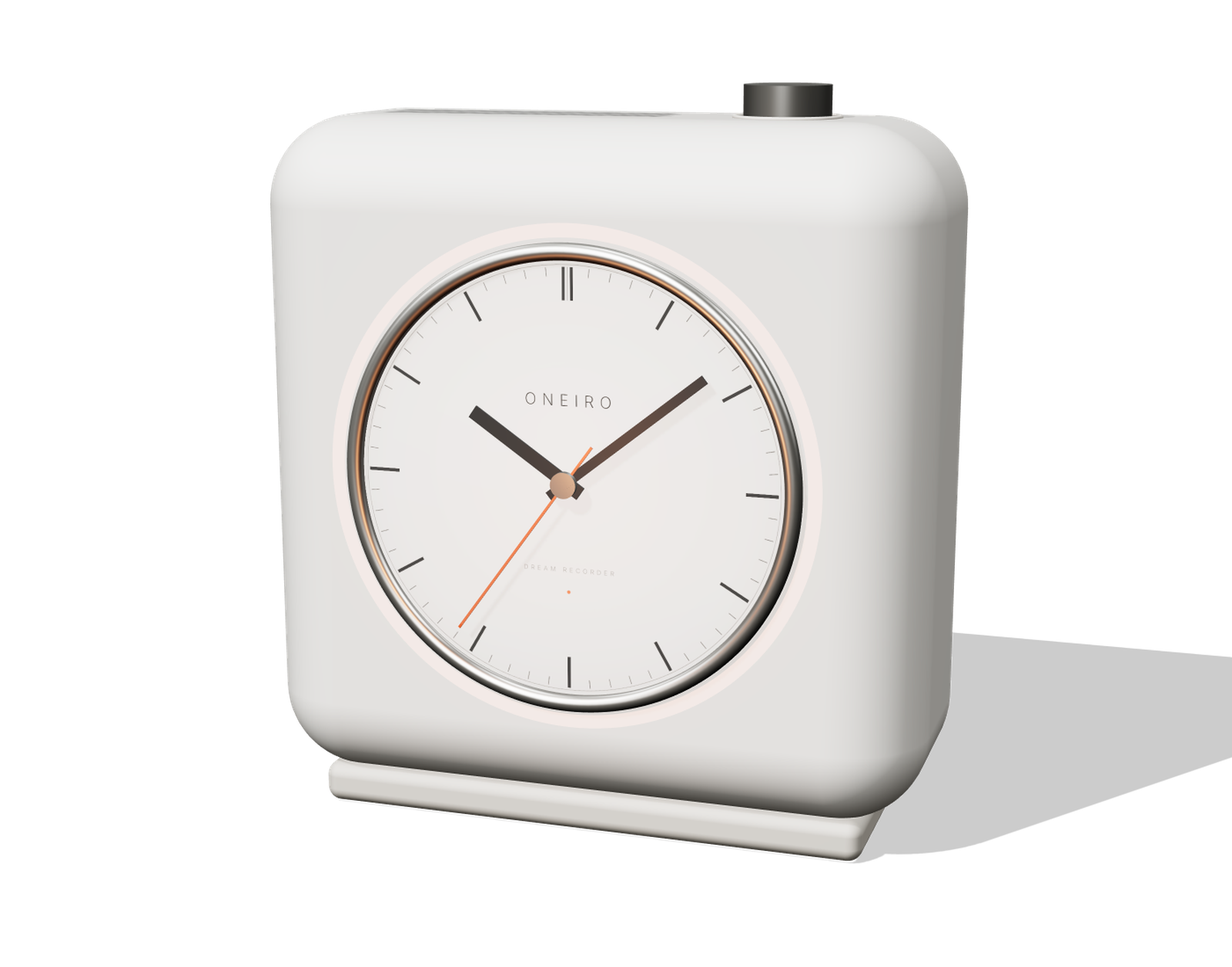
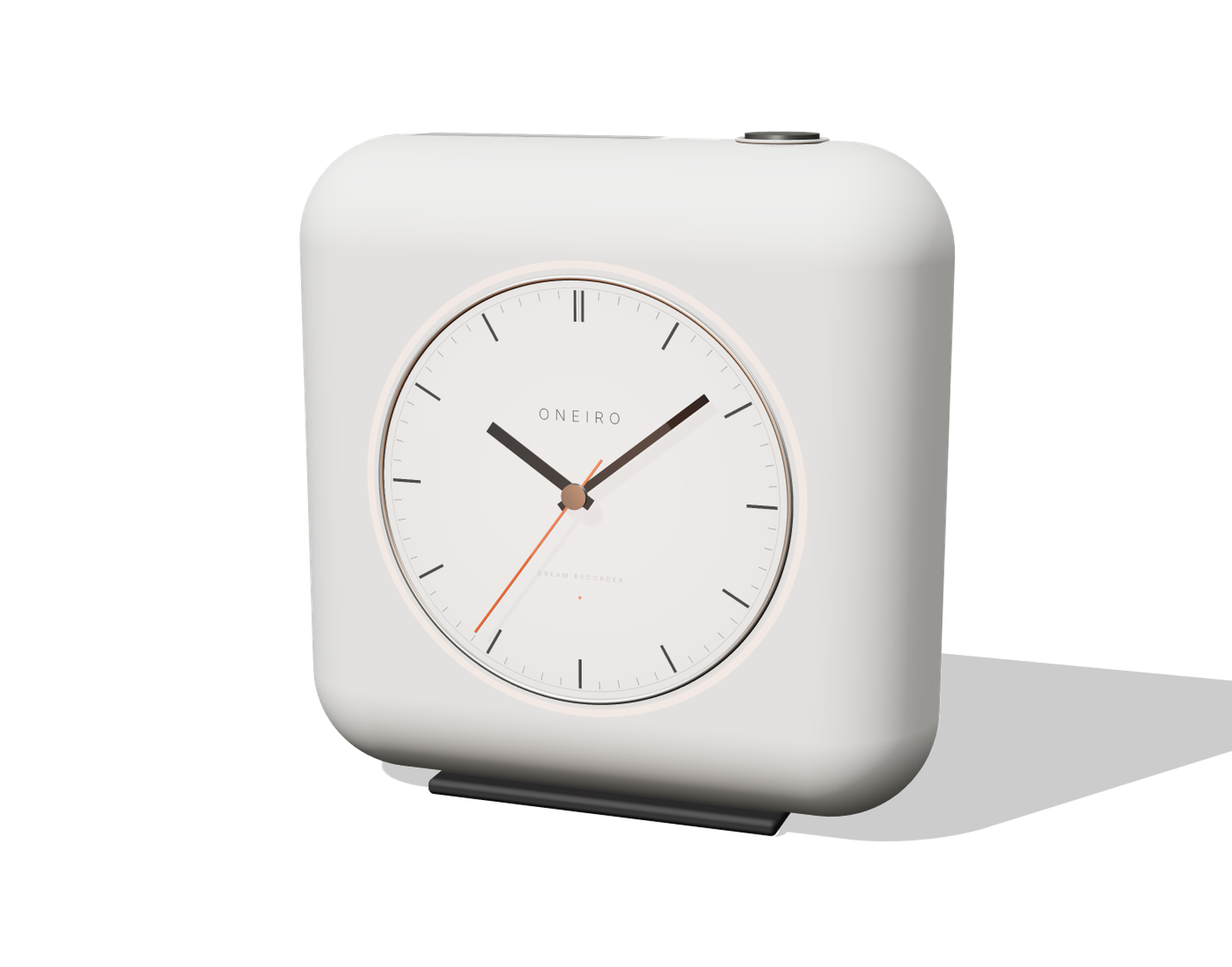
ONEIRO: Brick/WHOOP/Apple-inspired direction, graphite finish, daily score, membership model
Claude-Session: https://claude.ai/code/session_01Tka3XjxpxafM5JXNLjZUeU

diff --git a/oneiro/index.html b/oneiro/index.html
@@ -79,23 +79,27 @@ textarea{width:100%;min-height:104px;font:inherit;font-size:16px;color:var(--ink
 .hint3d{position:absolute;top:14px;inset-inline-start:18px;font-family:var(--f-mono);font-size:11px;letter-spacing:.12em;opacity:.55}
 
 /* phone */
-.phone{border-radius:44px;padding:11px;background:#e3e1dc;box-shadow:0 1px 0 #fff inset,0 30px 60px rgba(27,27,26,.12);max-width:360px;width:100%;margin-inline:auto}
-.screen{border-radius:34px;background:var(--card);min-height:660px;padding:20px 20px 24px;display:grid;gap:14px;align-content:start}
+.phone{border-radius:44px;padding:11px;background:#1c1d20;box-shadow:0 1px 0 #fff inset,0 30px 60px rgba(27,27,26,.12);max-width:360px;width:100%;margin-inline:auto}
+.screen{border-radius:34px;background:#0e0f11;color:#ecebe7;min-height:660px;padding:20px 20px 24px;display:grid;gap:14px;align-content:start}
 .island{width:96px;height:26px;border-radius:99px;background:#111;margin:-6px auto 6px}
 .appbar{display:flex;justify-content:space-between;align-items:center}
 .appbar .logo{font-family:var(--f-mono);letter-spacing:.38em;font-size:11px}
-.tag{font-family:var(--f-mono);font-size:10.5px;letter-spacing:.08em;padding:2px 9px;border-radius:99px;border:1px solid var(--line);color:var(--muted)}
+.tag{font-family:var(--f-mono);font-size:10.5px;letter-spacing:.08em;padding:2px 9px;border-radius:99px;border:1px solid #2e2f33;color:#a3a19b}
+.ring{display:flex;gap:14px;align-items:center}
+.ring svg{width:84px;height:84px;flex:none}
+.ring .rt{display:grid;gap:0}
+.ring .rt b{font-family:var(--f-mono);font-weight:300;font-size:13px;color:#a3a19b;letter-spacing:.08em}
 .tag.live{color:var(--accent);border-color:rgba(217,87,43,.4)}
 .ptitle{font-weight:300;font-size:25px;line-height:1.2;letter-spacing:-.01em}
-.pdream{font-size:14px;color:var(--muted);line-height:1.6}
+.pdream{font-size:14px;color:#a3a19b;line-height:1.6}
 .pills{display:flex;flex-wrap:wrap;gap:6px}
-.pills span{font-size:12px;padding:3px 10px;border-radius:99px;background:var(--stone)}
-.pills.emo span{background:none;border:1px solid var(--line)}
-.blk{display:grid;gap:4px;font-size:14.5px;padding-top:12px;border-top:1px solid var(--line)}
+.pills span{font-size:12px;padding:3px 10px;border-radius:99px;background:#222326}
+.pills.emo span{background:none;border:1px solid #2e2f33}
+.blk{display:grid;gap:4px;font-size:14.5px;padding-top:12px;border-top:1px solid #26272b}
 .blk .k{font-family:var(--f-mono);font-size:10.5px;letter-spacing:.14em;color:var(--faint);text-transform:uppercase}
 .blk.insight{border-top:0;background:linear-gradient(135deg,rgba(242,164,107,.18),rgba(242,164,107,.05));border-radius:14px;padding:12px 14px}
 .loading{display:flex;gap:6px;justify-content:center;padding:48px 0 8px}
-.loading i{width:7px;height:7px;border-radius:50%;background:var(--ink);animation:pulse 1.2s infinite}
+.loading i{width:7px;height:7px;border-radius:50%;background:#ecebe7;animation:pulse 1.2s infinite}
 .loading i:nth-child(2){animation-delay:.2s}.loading i:nth-child(3){animation-delay:.4s}
 @keyframes pulse{50%{opacity:.15}}
 .source{font-size:11px;color:var(--faint);text-align:center}
@@ -161,9 +165,26 @@ caption{text-align:start;font-weight:400;font-size:20px;padding-bottom:12px}
 .v1{background:var(--ink);color:var(--paper)}.v2{border:1px solid var(--line);color:var(--muted)}
 .honest{background:var(--card);border-radius:24px;padding:28px;display:grid;gap:12px;margin-top:56px}
 .honest ul{margin:0;padding-inline-start:18px;display:grid;gap:8px;color:var(--muted);font-size:15px}
+.refs{display:grid;grid-template-columns:repeat(3,1fr);gap:20px}
+.ref{background:var(--card);border-radius:24px;padding:26px;display:grid;gap:10px;align-content:start}
+.ref .from{font-family:var(--f-mono);font-size:11px;letter-spacing:.16em;color:var(--faint);text-transform:uppercase}
+.ref .take{border-top:1px solid var(--line);padding-top:12px;font-size:15px}
+.ref .take b{color:var(--accent);font-weight:500}
+.finishes{display:grid;grid-template-columns:1fr 1fr;gap:20px}
+.finish{border-radius:24px;overflow:hidden;background:radial-gradient(ellipse at 50% 35%,#f3f1ed,var(--stone) 75%);display:grid}
+.finish img{width:100%;height:auto;display:block}
+.finish .cap{padding:0 22px 20px;display:flex;justify-content:space-between;gap:10px;flex-wrap:wrap}
+.dark-band{background:#0e0f11;color:#ecebe7;border-radius:32px;padding-block:72px;padding-inline:max(20px,4vw);margin-block:24px}
+.dark-band .muted,.dark-band .sec-head p{color:#a3a19b}
+.dark-band .label{color:#7d7b75}
+.scores{display:grid;grid-template-columns:repeat(3,1fr);gap:20px}
+.score{display:grid;gap:10px;justify-items:start}
+.score svg{width:120px;height:120px}
+.score .big{font-family:var(--f-mono);font-weight:300;font-size:15px;color:#a3a19b}
 footer{padding-block:40px 64px;border-top:1px solid var(--line);color:var(--faint);font-size:13px}
 
 @media (max-width:900px){
+  .refs,.finishes,.scores{grid-template-columns:1fr}
   .sim,.report,.tables,.up{grid-template-columns:1fr}
   .journey,.specs,.figs{grid-template-columns:1fr 1fr}
   .specs div:nth-child(3),.fig:nth-child(3){border-inline-start:0}
@@ -189,19 +210,28 @@ footer{padding-block:40px 64px;border-top:1px solid var(--line);color:var(--fain
 <header class="hero">
   <span class="label">Dream Recorder · Model 01</span>
   <h1>השעון שזוכר<br>את החלומות שלך</h1>
-  <p class="lead">מחוגים אמיתיים מתחת לזכוכית כיפתית, וגוף בגוון אבן בהירה. מסביב לחוגה יש טבעת אור שמדמה זריחה. למעלה יש כפתור כתר מאלומיניום: לוחצים, מספרים את החלום, והוא מחכה לכם מפורש באפליקציה.</p>
+  <p class="lead">חפץ אחד ליד המיטה, בלי מסך ובלי התראות. מחוגים אמיתיים, טבעת אור שמעירה כמו זריחה, וכפתור אחד מאלומיניום: לוחצים ומספרים את החלום. כל בוקר מחכים לכם באפליקציה פירוש, תובנה וציון חלימה.</p>
   <div class="price-row">
     <a class="cta" href="#sim">לחוות בוקר אחד</a>
-    <span class="price">₪1,190</span>
+    <span class="price">₪49 לחודש, השעון כלול · או ₪1,190</span>
   </div>
   <div class="stage"><img src="oneiro-clock.png" width="1600" height="1257" alt="ONEIRO: שעון מעורר לבן-אפרפר עם חוגת מחוגים, טבעת מאלומיניום, זכוכית כיפתית ומחוג שניות כתום"></div>
   <div class="specs">
     <div><span class="v">מחוגים בתנועה שקטה</span><span class="k">מנוע צעד בלי תקתוק, מתכוונן לבד דרך Wi‑Fi</span></div>
     <div><span class="v">טבעת אור זריחה</span><span class="k">20 דקות מסגול לענבר לפני הצליל</span></div>
     <div><span class="v">כפתור כתר להקלטה</span><span class="k">מקליט רק כשלוחצים, עם נורית אדומה</span></div>
-    <div><span class="v">16 × 16 × 7 ס״מ</span><span class="k">אלומיניום עם צבע אבקה וזכוכית מינרלית</span></div>
+    <div><span class="v">אבן או גרפיט</span><span class="k">גוף מט 16 × 16 × 5.2 ס״מ, אלומיניום וזכוכית</span></div>
   </div>
 </header>
+
+<section id="refs">
+  <div class="sec-head"><span class="label">השראה</span><h2>מה לקחנו משלושה מוצרים שעבדו</h2><p>ONEIRO נמצא בדיוק בצומת שבו המוצרים האלה הצליחו: חפץ פיזי שמשנה הרגל, וולנס בלי מסך ומנוי של נתונים. ככה לוקחים מכל אחד את העיקרון, בלי להעתיק אותו.</p></div>
+  <div class="refs">
+    <div class="ref"><span class="from">Brick</span><h3>חפץ פשוט שמשנה הרגל</h3><p class="muted">קובייה שלא עושה כלום חוץ מלנעול את הטלפון. ההצלחה שלה היא בתנועה הפיזית: מחליטים עם הגוף, לא עם עוד אפליקציה.</p><p class="take"><b>אצלנו:</b> בוקר בלי טלפון. האפליקציות המסיחות נשארות נעולות עד שלוחצים על הכתר ומספרים את החלום, או עד 20 דקות אחרי ההשכמה.</p></div>
+    <div class="ref"><span class="from">WHOOP</span><h3>בלי מסך, ציון אחד, מנוי</h3><p class="muted">צמיד בלי מסך שמחזיר כל בוקר מספר אחד שאכפת לך ממנו. החומרה כלולה בחברות חודשית, והעסק הוא המנוי.</p><p class="take"><b>אצלנו:</b> ציון חלימה יומי, מנוי חודשי שכולל את השעון, ושום מסך על השעון עצמו.</p></div>
+    <div class="ref"><span class="from">Apple</span><h3>עיצוב ומערכת שלמה</h3><p class="muted">מוצר שנראה פשוט כי כל פרט הוחלט. ומוצרים שמדברים זה עם זה, כמו נתוני שינה מהשעון שנכנסים ל־Health.</p><p class="take"><b>אצלנו:</b> שני גימורים בלבד, אריזה שהיא חוויה, וסנכרון עם Apple Health, Apple Watch, Oura ו־WHOOP כדי לדעת מתי אתם בשלב חלימה.</p></div>
+  </div>
+</section>
 
 <section id="sim">
   <div class="sec-head">
@@ -256,13 +286,22 @@ footer{padding-block:40px 64px;border-top:1px solid var(--line);color:var(--fain
 </section>
 
 <section id="design">
-  <div class="sec-head"><span class="label">עיצוב</span><h2>ישן וחדש באותו חפץ</h2><p>הצורה שואבת משעוני שולחן של שנות ה־60: חוגה עגולה, מחוגים דקים, כיפת זכוכית. הטכנולוגיה מוסתרת מאחוריה. אין מסך ואין לוגו בולט, יש רק אור, קול וכפתור אחד.</p></div>
-  <div class="mats">
-    <div class="mat"><span class="swatch" style="background:#dedcd7;box-shadow:inset 0 0 0 1px var(--line)"></span><h3>גוף בגוון אבן</h3><p class="muted">אלומיניום בעיבוד שבבי וצבע אבקה מט בגוון לבן־אפרפר. כבד ביד ונעים למגע, לא פלסטיק.</p></div>
-    <div class="mat"><span class="swatch" style="background:linear-gradient(135deg,#f1f0ed,#a9a8a3)"></span><h3>טבעת וכתר מאלומיניום</h3><p class="muted">אלומיניום מוברש שמחזיר את אור הבוקר. הכתר נלחץ עם קליק מכני רך, ונורית אדומה סביבו מראה שמקליטים.</p></div>
-    <div class="mat"><span class="swatch" style="background:var(--accent)"></span><h3>מחוג שניות כתום</h3><p class="muted">הצבע היחיד על החוגה. הוא חוזר גם באפליקציה, באריזה ובשיווק.</p></div>
+  <div class="sec-head"><span class="label">עיצוב</span><h2>ישן וחדש באותו חפץ</h2><p>החוגה והמחוגים לקוחים משעוני שולחן קלאסיים. הגוף הוא אובייקט רך ושקט, ממשפחת המוצרים שמכירים מוולנס ומטכנולוגיה. אין מסך, אין התראות ויש כפתור אחד.</p></div>
+  <div class="finishes">
+    <div class="finish"><img src="oneiro-clock.png" width="1600" height="1257" alt="ONEIRO בגימור אבן: גוף לבן־אפרפר מט וחוגה בהירה"><div class="cap"><h3>אבן</h3><span class="muted">גוף מט לבן־אפרפר, מחוגים שחורים</span></div></div>
+    <div class="finish"><img src="oneiro-graphite.png" width="1600" height="1257" alt="ONEIRO בגימור גרפיט: גוף אפור כהה וחוגה כהה עם מחוגים לבנים"><div class="cap"><h3>גרפיט</h3><span class="muted">גוף אפור כהה, מחוגים לבנים, נעלם בחדר חשוך</span></div></div>
   </div>
+  <p class="note" style="margin-top:18px">בשני הגימורים מחוג השניות כתום, וזה הצבע היחיד. הטבעת, הכתר והמסגרת הדקה עשויים מאלומיניום מוברש. אין לוגו על הגוף, השם מופיע רק על החוגה.</p>
 </section>
+
+<div class="dark-band">
+  <div class="sec-head"><span class="label">האפליקציה</span><h2>מספר אחד כל בוקר</h2><p>במקום לגלול, מקבלים שלושה מדדים פשוטים. הם מגיעים מהשעון, מההקלטה ומהשעון החכם אם יש לכם.</p></div>
+  <div class="scores">
+    <div class="score"><svg viewBox="0 0 120 120"><circle cx="60" cy="60" r="50" fill="none" stroke="#26272b" stroke-width="8"/><circle cx="60" cy="60" r="50" fill="none" stroke="#d9572b" stroke-width="8" stroke-linecap="round" stroke-dasharray="257.6 314.2" transform="rotate(-90 60 60)"/><text x="60" y="68" text-anchor="middle" fill="#ecebe7" font-family="IBM Plex Mono, monospace" font-size="28" font-weight="300">82</text></svg><h3>ציון חלימה</h3><p class="muted">כמה מהחלום נשמר: אורך, פרטים, רגשות ודמויות. משתפר עם התרגול, וזה בדיוק מה שמחזיר אנשים כל בוקר.</p></div>
+    <div class="score"><svg viewBox="0 0 120 120"><circle cx="60" cy="60" r="50" fill="none" stroke="#26272b" stroke-width="8"/><circle cx="60" cy="60" r="50" fill="none" stroke="#f2a46b" stroke-width="8" stroke-linecap="round" stroke-dasharray="213.7 314.2" transform="rotate(-90 60 60)"/><text x="60" y="68" text-anchor="middle" fill="#ecebe7" font-family="IBM Plex Mono, monospace" font-size="28" font-weight="300">68</text></svg><h3>טון רגשי</h3><p class="muted">איך החלומות מרגישים לאורך השבוע. ירידה חדה היא סימן לשים לב ללחץ או לשינה.</p></div>
+    <div class="score"><svg viewBox="0 0 120 120"><circle cx="60" cy="60" r="50" fill="none" stroke="#26272b" stroke-width="8"/><circle cx="60" cy="60" r="50" fill="none" stroke="#ecebe7" stroke-width="8" stroke-linecap="round" stroke-dasharray="235.6 314.2" transform="rotate(-90 60 60)"/><text x="60" y="68" text-anchor="middle" fill="#ecebe7" font-family="IBM Plex Mono, monospace" font-size="28" font-weight="300">12</text></svg><h3>רצף ימים</h3><p class="muted">כמה בקרים ברצף סיפרתם חלום בלי לגעת בטלפון. ההרגל הוא המוצר.</p></div>
+  </div>
+</div>
 
 <section>
   <div class="sec-head"><span class="label">דוח חודשי · דוגמה</span><h2>החודש שלכם בחלומות</h2><p>אחרי חודש של הקלטות, האפליקציה מראה מה חוזר. זה הערך שאי אפשר לקבל ממחברת ליד המיטה.</p></div>
@@ -339,16 +378,24 @@ footer{padding-block:40px 64px;border-top:1px solid var(--line);color:var(--fain
 </section>
 
 <section id="biz">
-  <div class="sec-head"><span class="label">מודל עסקי</span><h2>מחיר של חפץ עיצובי, הכנסה של מנוי</h2><p>₪1,190 מציב את השעון ליד מוצרי עיצוב כמו Braun ו־Teenage Engineering, ולא ליד שעונים חכמים זולים. השעון מחזיר את עצמו עם רווח. המנוי הוא מה שבונה עסק: ה־AI עולה בערך ₪4–5 בחודש למשתמש.</p></div>
+  <div class="sec-head"><span class="label">מודל עסקי</span><h2>חברות, לא רק מוצר</h2><p>כמו ב־WHOOP, ההצעה הראשית היא מנוי חודשי שהשעון כלול בו. מי שמעדיף יכול לקנות את השעון. ה־AI עולה בערך ₪4–5 בחודש למשתמש, וכל השאר הוא תוכנה, אז ההכנסה החוזרת היא מה שבונה את שווי החברה.</p></div>
   <div class="tiers">
-    <div class="tier"><h3>השעון</h3><span class="p">₪1,190</span><ul><li>כל החומרה, אחריות לשנתיים</li><li>תמלול כל החלומות ליומן</li><li>דוח חלומות חודשי, בחינם לתמיד</li></ul></div>
-    <div class="tier hl"><h3>ONEIRO+</h3><span class="p">₪29<span style="font-size:15px"> / חודש</span></span><span class="muted" style="font-size:14px">או ₪249 לשנה · 3 חודשים חינם עם השעון</span><ul><li>פירוש ותובנה כל בוקר</li><li>מפת סמלים אישית וחלומות חוזרים</li><li>קשר בין שינה, מצב רוח וחלומות</li><li>תמונה מהחלום, פעם בשבוע</li></ul></div>
-    <div class="tier"><h3>אפליקציה בלבד</h3><span class="p">₪19<span style="font-size:15px"> / חודש</span></span><ul><li>מקליטים מהטלפון</li><li>משפך כניסה: מי שמתאהב, קונה שעון</li><li>מטפלים ומאמנים: לוח עבודה עם הסכמת המטופל, ₪120 לחודש</li></ul></div>
+    <div class="tier hl"><h3>ONEIRO Membership</h3><span class="p">₪49<span style="font-size:15px"> / חודש</span></span><span class="muted" style="font-size:14px">התחייבות ל־12 חודשים · השעון כלול · ₪0 מראש</span><ul><li>השעון בגימור לבחירה</li><li>פירוש, תובנה וציון חלימה כל בוקר</li><li>מפת סמלים ודוח חודשי</li><li>נעילת בוקר וסנכרון עם Health</li><li>שדרוג חומרה בחינם אחרי 24 חודשים</li></ul></div>
+    <div class="tier"><h3>לקנות את השעון</h3><span class="p">₪1,190</span><span class="muted" style="font-size:14px">ו־ONEIRO+ לבחירה, ₪29 לחודש</span><ul><li>כל החומרה, אחריות לשנתיים</li><li>תמלול כל החלומות ליומן</li><li>דוח חודשי בחינם לתמיד</li></ul></div>
+    <div class="tier"><h3>אפליקציה בלבד</h3><span class="p">₪19<span style="font-size:15px"> / חודש</span></span><ul><li>מקליטים מהטלפון או מהשעון החכם</li><li>משפך כניסה: מי שמתאהב, עובר לחברות</li><li>מטפלים: לוח עבודה עם הסכמת המטופל, ₪120 לחודש</li></ul></div>
   </div>
 
-  <h3 style="margin-top:56px;font-size:20px;font-weight:400">מה נשאר מכל שעון</h3>
+  <h3 style="margin-top:56px;font-size:20px;font-weight:400">מה נשאר משעון שנקנה</h3>
   <div class="wfall" id="wfall"></div>
   <p class="note">בתוספת מנוי: אם 35% מהקונים משלמים ₪249 לשנה, אחרי עמלות חנות האפליקציות וה־AI נשארים כ־₪150 לשנה מכל מנוי. זה מוסיף בערך ₪110 לכל שעון לאורך חיי הלקוח.</p>
+  <h3 style="margin-top:44px;font-size:20px;font-weight:400">ואיך נראית חברות</h3>
+  <div class="wfall">
+    <div class="wf first"><span>שנה 1: ₪49 × 12, אחרי מע״מ</span><div><div class="b" style="width:42%"></div></div><span class="num">₪498</span></div>
+    <div class="wf"><span>שעון, משלוח, שיווק, AI</span><div><div class="b" style="width:55%"></div></div><span class="num">−₪660</span></div>
+    <div class="wf"><span>שנה 1, נטו</span><div><div class="b" style="width:14%"></div></div><span class="num">−₪162</span></div>
+    <div class="wf last"><span>כל שנה מהשנה השנייה</span><div><div class="b" style="width:37%"></div></div><span class="num">+₪440</span></div>
+  </div>
+  <p class="note">בשנה הראשונה החברות מפסידה, כי השעון יוצא מראש. מהשנה השנייה כמעט הכול רווח. אם 65% מחדשים, כל חבר שווה בערך ₪310 נטו לאורך החיים שלו, ומשקיעים מעריכים הכנסה חוזרת בפי 5–8 מהכנסה שנתית. בגלל זה ההמלצה היא להתחיל במכירה רגילה בקיקסטארטר, שמכניסה מזומן למלאי, ולעבור לחברות כהצעה הראשית בשנה השנייה.</p>
 
   <div class="figs" style="margin-top:44px">
     <div class="fig"><span class="v">~₪480</span><span class="l">רווח תרומה ללקוח (שעון + מנוי)</span></div>
@@ -359,7 +406,7 @@ footer{padding-block:40px 64px;border-top:1px solid var(--line);color:var(--fain
 
   <div class="phases">
     <div class="phase"><span class="label">שלב 1</span><h3>קיקסטארטר</h3><p>יעד של $300K, במחיר מוקדם של $249. הכסף מממן את המלאי ובודק ביקוש לפני הייצור. מוצר שנראה טוב בווידאו מתאים בדיוק לפלטפורמה הזו.</p></div>
-    <div class="phase"><span class="label">שלב 2</span><h3>מכירה ישירה</h3><p>אתר עצמאי, יוצרי תוכן מעולם השינה, העיצוב והבריאות, קהילות חלימה צלולה. מתנה לחגים ולחתונות.</p></div>
+    <div class="phase"><span class="label">שלב 2</span><h3>חברות</h3><p>מעבר למנוי שכולל את השעון. שיווק דרך יוצרי תוכן מעולם הוולנס, הביו־האקינג והעיצוב, וקהילות חלימה צלולה. "בוקר בלי טלפון" הוא המסר.</p></div>
     <div class="phase"><span class="label">שלב 3</span><h3>קמעונאות עיצוב</h3><p>חנויות מוזיאונים וקונספט סטורים, מלונות בוטיק עם "חדר חלומות", מהדורות קרמיקה מוגבלות ושיתופי פעולה עם מעצבים.</p></div>
   </div>
 </section>
@@ -375,6 +422,8 @@ footer{padding-block:40px 64px;border-top:1px solid var(--line);color:var(--fain
       <li><b>טעינה אלחוטית לטלפון בבסיס<span class="v2">V2</span></b><span>הטלפון נטען מחוץ להישג יד, וזה מחזק את הרעיון של בוקר בלי מסך.</span></li>
     </ul></div>
     <div><h3 style="margin-bottom:20px;font-size:20px;font-weight:400">תוכנה</h3><ul>
+      <li><b>נעילת בוקר<span class="v1">V1</span></b><span>בהשראת Brick: עד שמספרים את החלום, אינסטגרם, טיקטוק והמייל נשארים נעולים בטלפון. זה עובד דרך Screen Time ב־iPhone ודרך Digital Wellbeing ב־Android.</span></li>
+      <li><b>סנכרון עם שעונים וטבעות<span class="v1">V1</span></b><span>Apple Watch, Oura ו־WHOOP כבר יודעים מתי אתם ב־REM. מי שיש לו כזה יכול לקנות ONEIRO Lite בלי רדאר, ב־₪890.</span></li>
       <li><b>שאלת המשך בקול<span class="v1">V1</span></b><span>אחרי שסיימתם, השעון שואל שאלה אחת: "איך הרגשת שם?" זה מוציא עוד פרטים מהזיכרון.</span></li>
       <li><b>מפת סמלים אישית<span class="v1">V1</span></b><span>בלי מילון חלומות כללי. המשמעות נבנית ממה ש"מים" אומרים אצלכם, לאורך חודשים.</span></li>
       <li><b>קשר לחיים<span class="v1">V1</span></b><span>שאלה קצרה בערב (מצב רוח, קפה, מסכים) מול החלומות והשינה. מכאן מגיעות התובנות הכי טובות.</span></li>
@@ -439,6 +488,13 @@ try {
   function el(tag,cls,text){const e=document.createElement(tag); if(cls) e.className=cls; if(text!=null) e.textContent=text; return e;}
   function renderResult(dream,r,o){
     const b=$("#pBody"); b.replaceChildren(); const w=el("div"); w.style.cssText="display:grid;gap:14px";
+    const words=dream.split(/\s+/).filter(Boolean).length, sc=Math.max(20,Math.min(97,Math.round(38+words*0.9+(r.symbols||[]).length*4)));
+    const NS="http://www.w3.org/2000/svg", ring=el("div","ring"), svg=document.createElementNS(NS,"svg"); svg.setAttribute("viewBox","0 0 120 120");
+    const mk=(c,extra)=>{const n=document.createElementNS(NS,"circle"); n.setAttribute("cx","60");n.setAttribute("cy","60");n.setAttribute("r","50");n.setAttribute("fill","none");n.setAttribute("stroke",c);n.setAttribute("stroke-width","9");Object.entries(extra||{}).forEach(([k,v])=>n.setAttribute(k,v));return n;};
+    svg.append(mk("#26272b"), mk("#d9572b",{"stroke-linecap":"round","stroke-dasharray":(sc/100*314.2).toFixed(1)+" 314.2","transform":"rotate(-90 60 60)"}));
+    const tx=document.createElementNS(NS,"text"); tx.setAttribute("x","60");tx.setAttribute("y","70");tx.setAttribute("text-anchor","middle");tx.setAttribute("fill","#ecebe7");tx.setAttribute("font-size","32");tx.setAttribute("font-family","IBM Plex Mono, monospace");tx.setAttribute("font-weight","300");tx.textContent=String(sc); svg.append(tx);
+    const rt=el("div","rt"); rt.append(el("b",null,"ציון חלימה"), el("span",null,sc>=75?"זכירה חזקה. החלום נשמר כמעט במלואו.":sc>=50?"זכירה טובה. נסו לספר עוד פרט אחד מחר.":"זכירה חלקית. מחר נסו לספר לפני שזזים מהמיטה."));
+    ring.append(svg,rt); w.append(ring);
     w.append(el("div","ptitle",r.title||"החלום של הבוקר"), el("p","pdream",dream));
     const s=el("div","pills"); (r.symbols||[]).slice(0,5).forEach(x=>s.append(el("span",null,x))); w.append(s);
     const e=el("div","pills emo"); (r.emotions||[]).slice(0,4).forEach(x=>e.append(el("span",null,x))); w.append(e);

diff --git a/oneiro/clock3d.js b/oneiro/clock3d.js
@@ -4,41 +4,42 @@ import { RoundedBoxGeometry } from 'three/addons/geometries/RoundedBoxGeometry.j
 import { RoomEnvironment } from 'three/addons/environments/RoomEnvironment.js';
 import { OrbitControls } from 'three/addons/controls/OrbitControls.js';
 
-function dialTexture(maxAniso) {
+function dialTexture(maxAniso, dark) {
+  const INK = dark ? '#e8e6e1' : '#1e1e1c', INK2 = dark ? 'rgba(232,230,225,' : 'rgba(30,30,28,';
   const S = 2048, c = document.createElement('canvas'); c.width = c.height = S;
   const g = c.getContext('2d'), R = S / 2;
   g.translate(R, R);
   const grd = g.createRadialGradient(0, -R * .2, R * .1, 0, 0, R);
-  grd.addColorStop(0, '#f7f6f2'); grd.addColorStop(.85, '#efede8'); grd.addColorStop(1, '#e4e1db');
+  if (dark) { grd.addColorStop(0, '#2a2b2e'); grd.addColorStop(.85, '#222326'); grd.addColorStop(1, '#1a1b1d'); } else { grd.addColorStop(0, '#f7f6f2'); grd.addColorStop(.85, '#efede8'); grd.addColorStop(1, '#e4e1db'); }
   g.fillStyle = grd; g.beginPath(); g.arc(0, 0, R, 0, Math.PI * 2); g.fill();
   // fine outer track
-  g.strokeStyle = 'rgba(30,30,28,.55)'; g.lineWidth = 2.5;
+  g.strokeStyle = INK2 + '.55)'; g.lineWidth = 2.5;
   g.beginPath(); g.arc(0, 0, R * .955, 0, Math.PI * 2); g.stroke();
   for (let i = 0; i < 60; i++) {
     const a = i / 60 * Math.PI * 2, hour = i % 5 === 0;
     const r1 = R * .945, r2 = hour ? R * .80 : R * .905;
-    g.strokeStyle = hour ? '#1e1e1c' : 'rgba(30,30,28,.7)';
+    g.strokeStyle = hour ? INK : INK2 + '.7)';
     g.lineWidth = hour ? (i === 0 ? 0 : 16) : 4; g.lineCap = 'butt';
     if (g.lineWidth) { g.beginPath(); g.moveTo(Math.sin(a) * r1, -Math.cos(a) * r1); g.lineTo(Math.sin(a) * r2, -Math.cos(a) * r2); g.stroke(); }
   }
   // twin bars at 12
-  g.fillStyle = '#1e1e1c';
+  g.fillStyle = INK;
   g.fillRect(-26, -R * .945, 14, R * .145); g.fillRect(12, -R * .945, 14, R * .145);
-  g.fillStyle = '#1e1e1c'; g.textAlign = 'center'; g.textBaseline = 'middle';
+  g.fillStyle = INK; g.textAlign = 'center'; g.textBaseline = 'middle';
   g.font = '300 74px "Helvetica Neue", Helvetica, Arial, sans-serif';
   try { g.letterSpacing = '26px'; } catch (e) {}
   g.fillText('ONEIRO', 13, -R * .36);
   g.font = '400 30px "Helvetica Neue", Helvetica, Arial, sans-serif';
   try { g.letterSpacing = '12px'; } catch (e) {}
-  g.fillStyle = 'rgba(30,30,28,.55)';
+  g.fillStyle = INK2 + '.55)';
   g.fillText('DREAM RECORDER', 6, R * .40);
   g.fillStyle = '#d9572b'; g.beginPath(); g.arc(0, R * .50, 9, 0, Math.PI * 2); g.fill();
   const t = new THREE.CanvasTexture(c); t.colorSpace = THREE.SRGBColorSpace; t.anisotropy = maxAniso; return t;
 }
 
-function grilleTexture() {
+function grilleTexture(dark) {
   const W = 1024, H = 256, c = document.createElement('canvas'); c.width = W; c.height = H;
-  const g = c.getContext('2d'); g.fillStyle = '#3a3936';
+  const g = c.getContext('2d'); g.fillStyle = dark ? '#151517' : '#3a3936';
   for (let y = 0; y < 5; y++) for (let x = 0; x < 22; x++) {
     g.beginPath(); g.arc(46 + x * 44 + (y % 2) * 22, 40 + y * 44, 12, 0, Math.PI * 2); g.fill();
   }
@@ -60,56 +61,56 @@ export function createClock(canvas, opts = {}) {
 
   const camera = new THREE.PerspectiveCamera(26, 1, .1, 300);
   camera.position.set(opts.camX ?? 16, 10.5, 47);
-  const target = new THREE.Vector3(0, -.8, 0);
+  const target = new THREE.Vector3(0, -.3, 0);
   camera.lookAt(target);
 
   const aniso = renderer.capabilities.getMaxAnisotropy();
+  const G = opts.finish === 'graphite';
   const M = {
-    body: new THREE.MeshPhysicalMaterial({ color: 0xdedcd7, roughness: .6, metalness: 0, clearcoat: .3, clearcoatRoughness: .45 }),
-    plinth: new THREE.MeshStandardMaterial({ color: 0xb9b5ad, roughness: .7 }),
+    body: new THREE.MeshPhysicalMaterial({ color: G ? 0x36373a : 0xd9d8d4, roughness: G ? .7 : .78, metalness: 0, clearcoat: .1, clearcoatRoughness: .6 }),
+    plinth: new THREE.MeshStandardMaterial({ color: 0x2a2a2b, roughness: .8 }),
     champagne: new THREE.MeshStandardMaterial({ color: 0xd4d3cf, metalness: 1, roughness: .32, envMapIntensity: 1.4 }),
-    hand: new THREE.MeshStandardMaterial({ color: 0x1b1b1a, metalness: .1, roughness: .5 }),
+    hand: new THREE.MeshStandardMaterial({ color: G ? 0xeeede9 : 0x1b1b1a, metalness: .1, roughness: .5 }),
     second: new THREE.MeshStandardMaterial({ color: 0xd9572b, metalness: .2, roughness: .45 }),
-    diffuser: new THREE.MeshStandardMaterial({ color: 0xd9d5ce, roughness: .9, emissive: 0xffa25e, emissiveIntensity: 0 }),
-    led: new THREE.MeshStandardMaterial({ color: 0xcfcac2, roughness: .6, emissive: 0xff3b2f, emissiveIntensity: 0 }),
+    diffuser: new THREE.MeshStandardMaterial({ color: G ? 0x2c2d30 : 0xcfccc6, roughness: .9, emissive: 0xffa25e, emissiveIntensity: 0 }),
+    led: new THREE.MeshStandardMaterial({ color: G ? 0x2c2d30 : 0xc4c1bb, roughness: .6, emissive: 0xff3b2f, emissiveIntensity: 0 }),
     glass: new THREE.MeshPhysicalMaterial({ color: 0xffffff, roughness: .03, metalness: 0, transparent: true, opacity: .16, clearcoat: 1, envMapIntensity: 1.6, depthWrite: false }),
   };
 
   const clock = new THREE.Group(); scene.add(clock);
   const add = (geo, mat, cast = true, recv = true) => { const m = new THREE.Mesh(geo, mat); m.castShadow = cast; m.receiveShadow = recv; clock.add(m); return m; };
 
-  add(new RoundedBoxGeometry(16, 16, 7, 8, 2.1), M.body);
-  const pl = add(new RoundedBoxGeometry(13.4, 1, 5.4, 4, .35), M.plinth); pl.position.y = -8.25;
+  add(new RoundedBoxGeometry(16, 16, 5.2, 10, 2.6), M.body);
+  const pl = add(new RoundedBoxGeometry(9, .4, 3, 4, .15), M.plinth); pl.position.y = -8.1;
 
-  const FZ = 3.5; // front face
-  const diff = add(new THREE.RingGeometry(5.5, 5.82, 160), M.diffuser, false); diff.position.z = FZ + .006;
-  const bez = add(new THREE.TorusGeometry(5.2, .2, 32, 180), M.champagne); bez.position.z = FZ + .08;
-  const dial = add(new THREE.CircleGeometry(5.14, 160), new THREE.MeshStandardMaterial({ map: dialTexture(aniso), roughness: .85 }), false); dial.position.z = FZ + .03;
+  const FZ = 2.6; // front face
+  const diff = add(new THREE.RingGeometry(5.2, 5.38, 160), M.diffuser, false); diff.position.z = FZ + .006;
+  const bez = add(new THREE.TorusGeometry(5.0, .07, 24, 180), M.champagne); bez.position.z = FZ + .03;
+  const dial = add(new THREE.CircleGeometry(4.98, 160), new THREE.MeshStandardMaterial({ map: dialTexture(aniso, G), roughness: .85 }), false); dial.position.z = FZ + .012;
 
   function hand(w, len, back, depth, mat, z) {
     const geo = new THREE.BoxGeometry(w, len + back, depth); geo.translate(0, (len - back) / 2, 0);
     const m = add(geo, mat, true, false); m.position.z = z; return m;
   }
-  const hHour = hand(.32, 2.7, .4, .05, M.hand, FZ + .16);
-  const hMin = hand(.22, 4.1, .5, .05, M.hand, FZ + .24);
-  const hSec = hand(.06, 4.4, 1.1, .03, M.second, FZ + .31);
+  const hHour = hand(.28, 2.6, .4, .05, M.hand, FZ + .16);
+  const hMin = hand(.2, 3.95, .5, .05, M.hand, FZ + .24);
+  const hSec = hand(.055, 4.3, 1.1, .03, M.second, FZ + .31);
   const cap = add(new THREE.CylinderGeometry(.3, .3, .14, 48), M.champagne); cap.rotation.x = Math.PI / 2; cap.position.z = FZ + .36;
 
-  const R = 22, th = Math.asin(5.22 / R);
+  const R = 40, th = Math.asin(5.02 / R);
   const dome = new THREE.Mesh(new THREE.SphereGeometry(R, 160, 24, 0, Math.PI * 2, 0, th), M.glass);
-  dome.rotation.x = Math.PI / 2; dome.position.z = FZ + .12 - R * Math.cos(th); dome.renderOrder = 5; clock.add(dome);
+  dome.rotation.x = Math.PI / 2; dome.position.z = FZ + .05 - R * Math.cos(th); dome.renderOrder = 5; clock.add(dome);
 
   // top: crown record button + speaker grille
   const TOP = 8.0;
-  const crown = add(new THREE.CylinderGeometry(1.0, 1.0, .75, 96), M.champagne); crown.position.set(4.1, TOP + .36, .1);
-  const collar = add(new THREE.CylinderGeometry(.82, .9, .2, 64), M.plinth); collar.position.set(4.1, TOP + .05, .1);
-  const led = add(new THREE.TorusGeometry(1.2, .055, 16, 96), M.led, false); led.rotation.x = Math.PI / 2; led.position.set(4.1, TOP + .01, .1);
-  const gr = add(new THREE.PlaneGeometry(7.2, 1.8), new THREE.MeshStandardMaterial({ map: grilleTexture(), transparent: true, roughness: .9 }), false);
-  gr.rotation.x = -Math.PI / 2; gr.position.set(-2.1, TOP + .004, .1);
+  const crown = add(new THREE.CylinderGeometry(.85, .85, .16, 96), M.champagne); crown.position.set(4.0, TOP + .07, 0);
+  const led = add(new THREE.TorusGeometry(1.02, .05, 16, 96), M.led, false); led.rotation.x = Math.PI / 2; led.position.set(4.0, TOP + .005, 0);
+  const gr = add(new THREE.PlaneGeometry(6.4, 1.6), new THREE.MeshStandardMaterial({ map: grilleTexture(G), transparent: true, roughness: .9 }), false);
+  gr.rotation.x = -Math.PI / 2; gr.position.set(-2.0, TOP + .004, 0);
 
   // floor + lights
   const floor = new THREE.Mesh(new THREE.PlaneGeometry(200, 200), new THREE.ShadowMaterial({ opacity: .2 }));
-  floor.rotation.x = -Math.PI / 2; floor.position.y = -8.75; floor.receiveShadow = true; scene.add(floor);
+  floor.rotation.x = -Math.PI / 2; floor.position.y = -8.3; floor.receiveShadow = true; scene.add(floor);
   const key = new THREE.DirectionalLight(0xffffff, 2.0); key.position.set(-14, 24, 20); key.castShadow = true;
   key.shadow.mapSize.set(2048, 2048); Object.assign(key.shadow.camera, { left: -16, right: 16, top: 16, bottom: -16, near: 1, far: 80 });
   key.shadow.bias = -.0004; key.shadow.normalBias = .03; scene.add(key);

diff --git a/oneiro/render.html b/oneiro/render.html
@@ -5,7 +5,7 @@
 <script type="module">
 import { createClock } from './clock3d.js';
 const q=new URLSearchParams(location.search);
-const c=createClock(document.getElementById('c'),{preserve:true,pixelRatio:2,camX:+(q.get('x')||15)});
+const c=createClock(document.getElementById('c'),{preserve:true,pixelRatio:2,camX:+(q.get('x')||16),finish:q.get('f')||'stone'});
 c.setTime(10,8,36); c.setGlow(+(q.get('g')||0.55)); if(q.get('rec')) c.setRecording(true);
 c.render(); requestAnimationFrame(()=>{c.render(); window.done=true;});
 </script></body></html>
